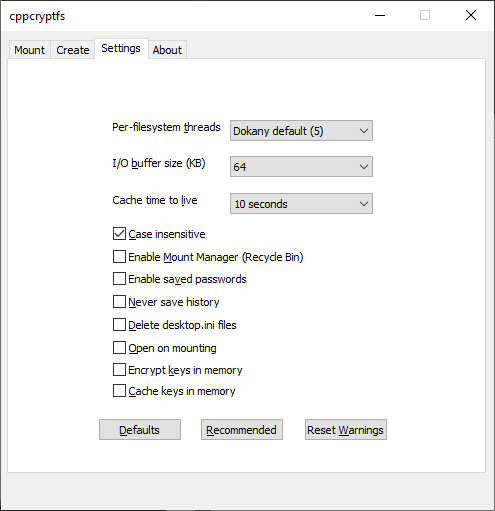
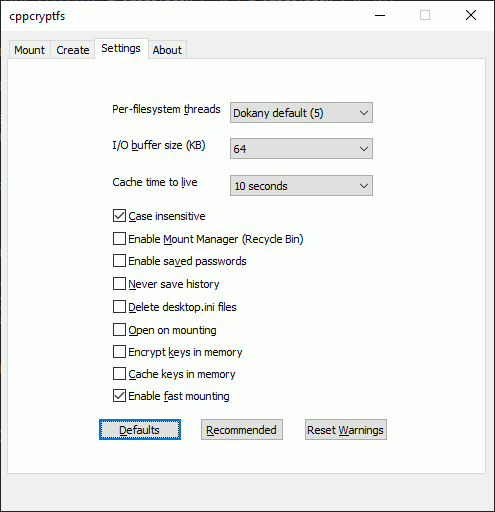
update readme, changelog and screenshot about fast mounting

diff --git a/README.md b/README.md
@@ -305,6 +305,19 @@ This setting is not enabled in either the Default or Recommended settings.
 
 Currently, the default and recommended settings are the same.
 
+**Enable fast mounting**
+
+Previously, cppcryptfs would always wait for Dokany to call back to indicate whether or not a mount operation succeeded or failed.
+
+Dokany was taking typically 5 seconds to call back.  However, the filesystem appeared to be mounted and available almost instantly.
+
+When Enable fast mounting is turned on, cppcryptfs will both wait for Dokany's callback and periodically check to see
+if the filesystem is mounted.  If cppcryptfs discovers that the filesystem appears to be mounted, then cppcryptfs will stop waiting on Dokany and assume the mount operation succeeded.  If this setting is disabled, then cppcryptfs will only wait for the callback from Dokany.
+
+With this setting enabled, a successful mount operation is indicated as such on the developer's machine in about 31 milliseconds instead of 5 seconds as before.
+
+This setting is enabled by default.
+
 **Reset Warnings**
 
 Pressing the Reset Warnings button will turn back on any warning dialogs which were previously disabled by selecting "don't show this message again".

diff --git a/changelog.md b/changelog.md
@@ -2,6 +2,12 @@
 
 Changelog
 ------------
+v1.4.3.4, Nov 28 2020
+* Add "enable fast mounting" setting (enabled by default).
+* Make cppcryptfs and cppcryptfsctl wait forever if the named pipe
+  is busy when trying to connect to a running instance of cppcryptfs
+  instead of timing out after 2 seconds.
+
 v1.4.3.3, Nov 7 2020
 * Add change password, print master key, and recover capabilities 
   to cppcryptfsctl.
